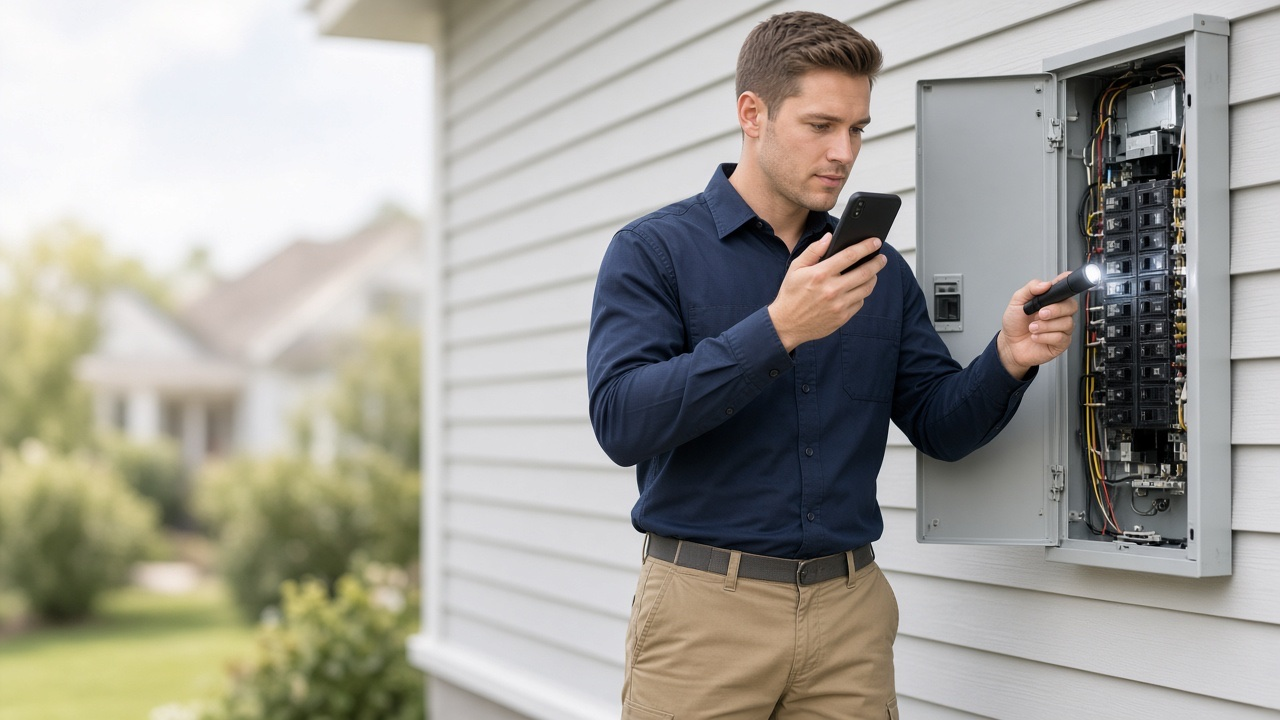
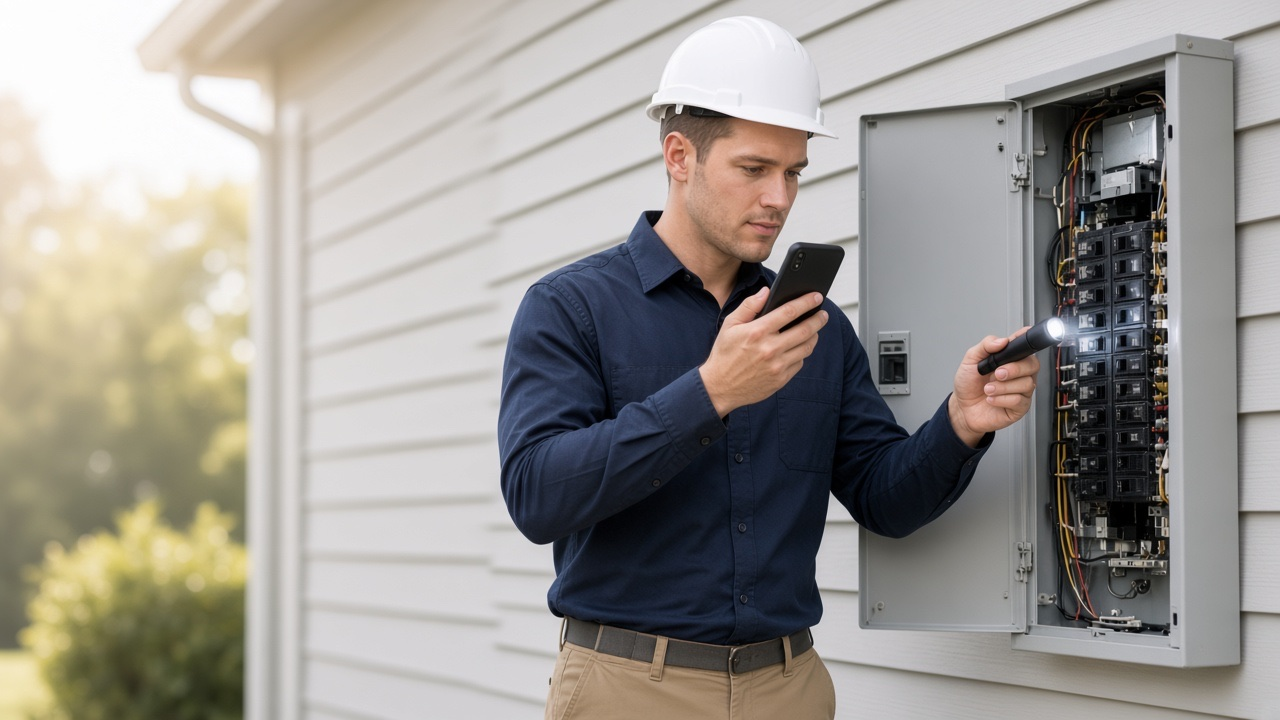
Refresh InspectLog hero with hard hat and lean cast.
Keep the standing panel inspection scene, add PPE, and shift to a slimmer young Western look.

diff --git a/inspectlog/index.html b/inspectlog/index.html
@@ -10,7 +10,7 @@
   <link rel="preconnect" href="https://fonts.googleapis.com" />
   <link rel="preconnect" href="https://fonts.gstatic.com" crossorigin />
   <link href="https://fonts.googleapis.com/css2?family=Fraunces:opsz,wght@9..144,500;9..144,600&family=Manrope:wght@400;500;600;700&display=swap" rel="stylesheet" />
-  <link rel="stylesheet" href="assets/css/styles.css?v=3" />
+  <link rel="stylesheet" href="assets/css/styles.css?v=4" />
 </head>
 <body>
   <a class="skip-link" href="#main">Skip to content</a>
@@ -33,7 +33,7 @@
   <main id="main">
     <section class="hero" aria-label="InspectLog">
       <div class="hero__banner" aria-hidden="true">
-        <img src="assets/images/banner.jpg?v=3" alt="" width="1280" height="720" />
+        <img src="assets/images/banner.jpg?v=4" alt="" width="1280" height="720" />
       </div>
       <div class="hero__veil" aria-hidden="true"></div>
       <div class="hero__content" data-reveal>
